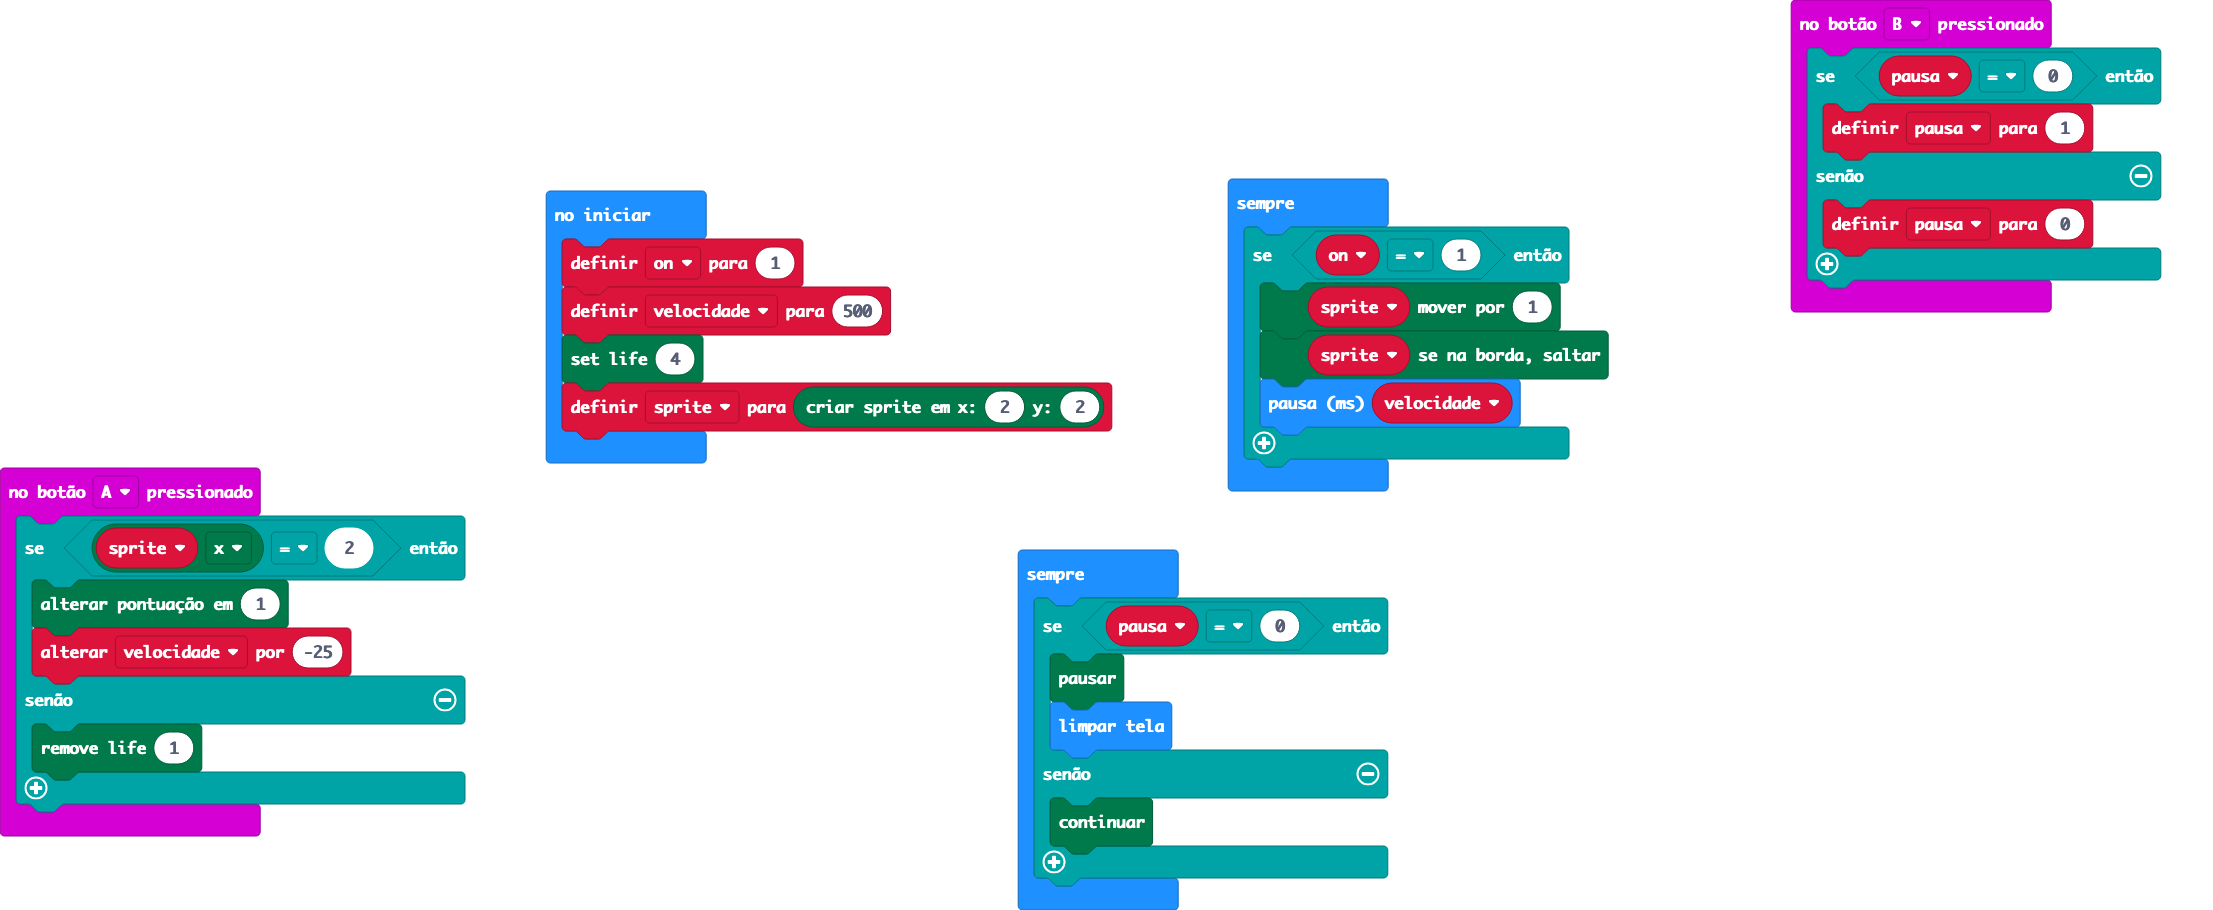
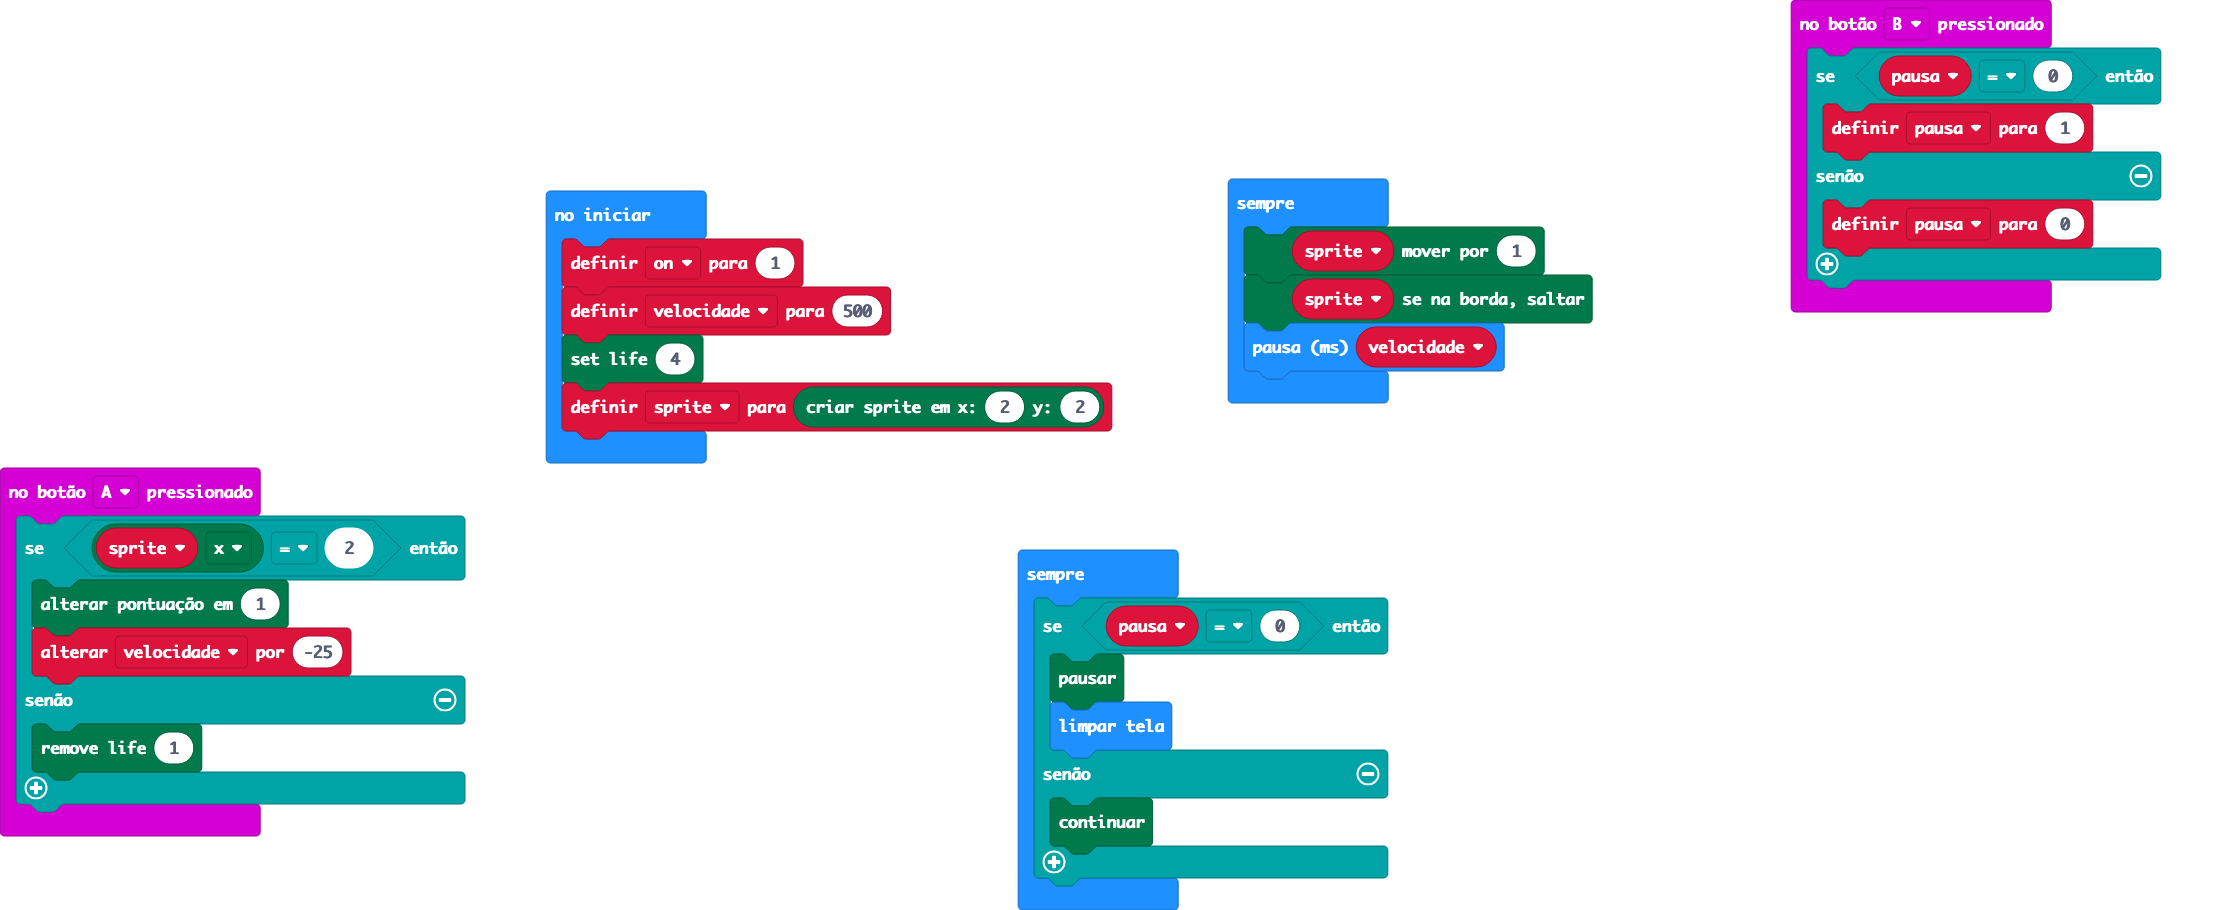
removed useless booleans*        *on and off

Changed region(s): [[0.53, 0.2462, 0.7483, 0.5538]]

diff --git a/main.ts b/main.ts
@@ -20,11 +20,9 @@ let velocidade = 500
 game.setLife(4)
 sprite = game.createSprite(2, 2)
 basic.forever(function () {
-    if (on == 1) {
-        sprite.move(1)
-        sprite.ifOnEdgeBounce()
-        basic.pause(velocidade)
-    }
+    sprite.move(1)
+    sprite.ifOnEdgeBounce()
+    basic.pause(velocidade)
 })
 basic.forever(function () {
     if (pausa == 0) {
